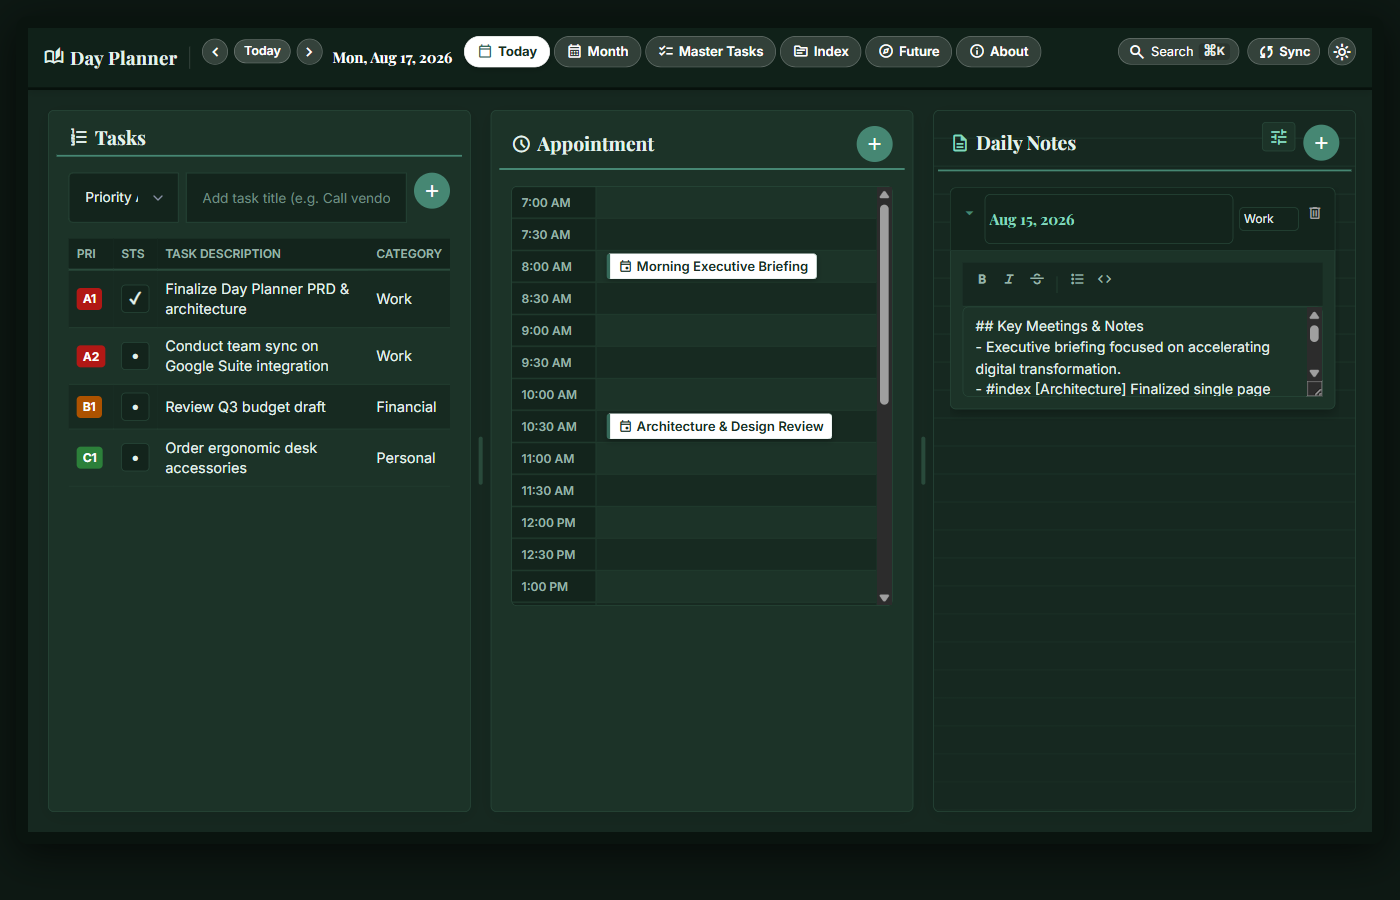
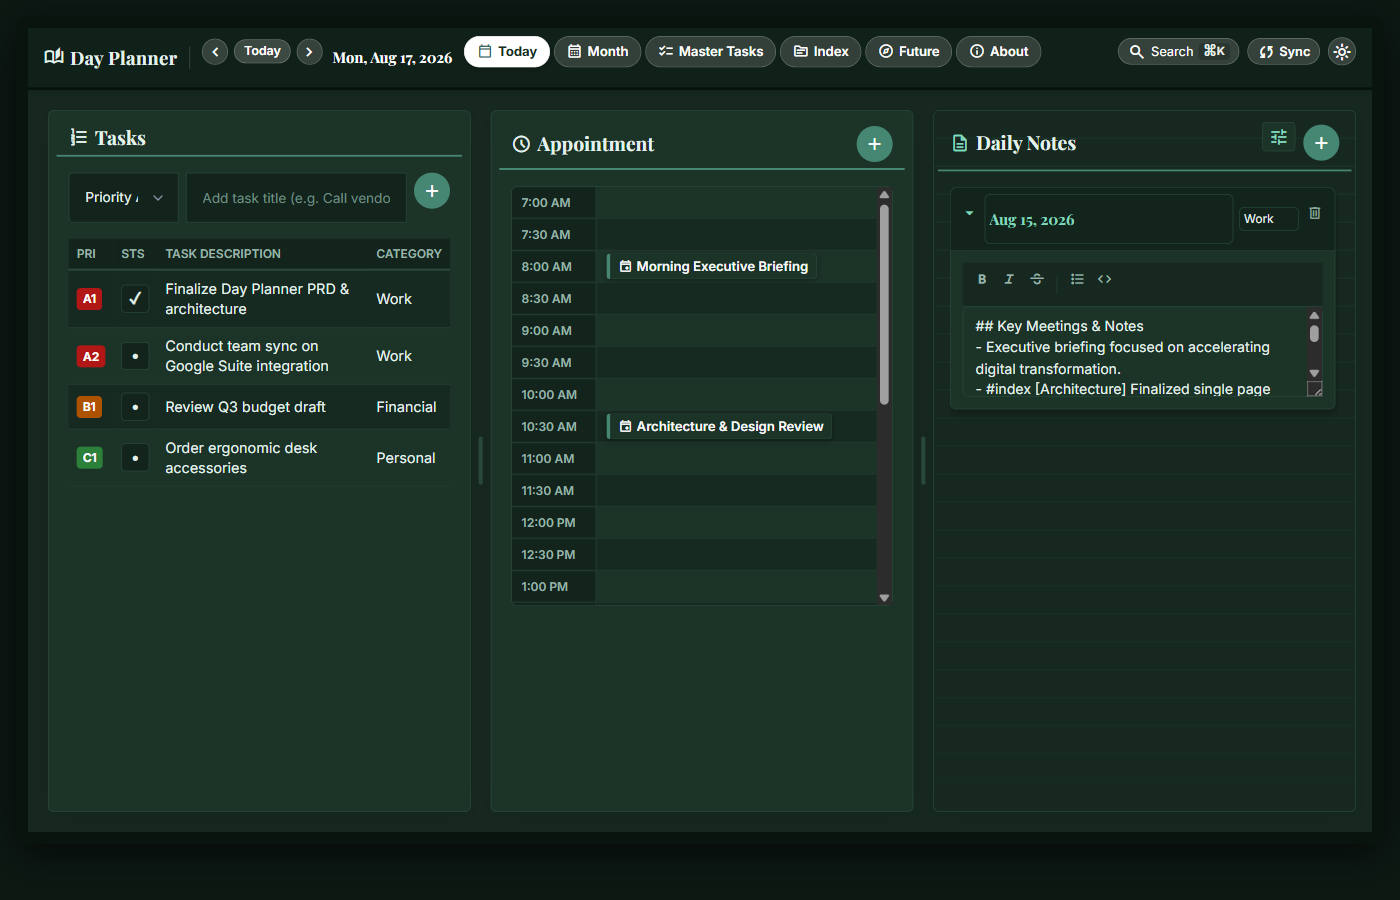
fix(ui): dark mode appointment cards (dark bg #193328, cream fg #f7faf8) & distinct dark mode Daily Notes theme

Changed region(s): [[0.43, 0.4356, 0.6143, 0.4978], [0.43, 0.28, 0.5836, 0.3111]]

diff --git a/gas-app/Styles.html b/gas-app/Styles.html
@@ -770,19 +770,6 @@
     border: 1px solid #c8ded7 !important;
   }
 
-  .notes-column-panel .format-btn,
-  [data-theme="dark"] .notes-column-panel .format-btn {
-    color: #2d6a5a !important;
-  }
-
-  .notes-column-panel .note-card-textarea,
-  [data-theme="dark"] .notes-column-panel .note-card-textarea,
-  .notes-column-panel .continuous-doc-textarea,
-  [data-theme="dark"] .notes-column-panel .continuous-doc-textarea {
-    background: #ffffff !important;
-    color: #142e23 !important;
-    border: 1px solid #c8ded7 !important;
-  }
 
   .notes-header-actions {
     display: flex;
@@ -1981,17 +1968,17 @@
 
   [data-theme="dark"] button.event-pill, 
   [data-theme="dark"] div.event-pill {
-    background: #ffffff !important;
-    color: #142e23 !important;
-    border: 1px solid #c8ded7 !important;
-    border-left: 4px solid #2d6a5a !important;
-    box-shadow: 0 2px 6px rgba(0, 0, 0, 0.25);
+    background: #193328 !important;
+    color: #f7faf8 !important;
+    border: 1px solid #244a3b !important;
+    border-left: 4px solid #3b8773 !important;
+    box-shadow: 0 2px 6px rgba(0, 0, 0, 0.3);
   }
 
   [data-theme="dark"] button.event-pill:hover {
-    background: #f4faf7 !important;
-    color: #0d2118 !important;
-    border-color: #2d6a5a !important;
+    background: #204535 !important;
+    color: #ffffff !important;
+    border-color: #3b8773 !important;
   }
 
   /* Daily Notes Dark Mode Palette (Dark Forest Aesthetic) */
@@ -2063,6 +2050,16 @@
     color: #79d6bd !important;
   }
 
+  [data-theme="dark"] .notes-column-panel .card-twistie-btn {
+    color: #79d6bd !important;
+  }
+  [data-theme="dark"] .notes-column-panel .card-delete-btn {
+    color: #85a398 !important;
+  }
+  [data-theme="dark"] .notes-column-panel .card-delete-btn:hover {
+    color: #f87171 !important;
+  }
+
   [data-theme="dark"] .notes-column-panel .note-card-textarea,
   [data-theme="dark"] .notes-column-panel textarea.note-card-textarea,
   [data-theme="dark"] .notes-column-panel .continuous-doc-textarea,
@@ -2071,6 +2068,27 @@
     background: #193328 !important;
     color: #e2f2ec !important;
     border: 1px solid #244a3b !important;
+  }
+
+  [data-theme="dark"] .notes-filter-menu {
+    background: #163025 !important;
+    border-color: #244a3b !important;
+    color: #e2f2ec !important;
+    box-shadow: 0 8px 24px rgba(0, 0, 0, 0.4) !important;
+  }
+  [data-theme="dark"] .notes-filter-menu .dropdown-header {
+    color: #79d6bd !important;
+  }
+  [data-theme="dark"] .notes-filter-menu input,
+  [data-theme="dark"] .notes-filter-menu select {
+    background: #11241c !important;
+    color: #e2f2ec !important;
+    border-color: #244a3b !important;
+  }
+  [data-theme="dark"] .notes-filter-menu .btn-toggle-mode {
+    background: #193328 !important;
+    border-color: #244a3b !important;
+    color: #79d6bd !important;
   }
 
   [data-theme="dark"] article.calendar-day-cell {

diff --git a/src/styles.css b/src/styles.css
@@ -769,19 +769,6 @@
     border: 1px solid #c8ded7 !important;
   }
 
-  .notes-column-panel .format-btn,
-  [data-theme="dark"] .notes-column-panel .format-btn {
-    color: #2d6a5a !important;
-  }
-
-  .notes-column-panel .note-card-textarea,
-  [data-theme="dark"] .notes-column-panel .note-card-textarea,
-  .notes-column-panel .continuous-doc-textarea,
-  [data-theme="dark"] .notes-column-panel .continuous-doc-textarea {
-    background: #ffffff !important;
-    color: #142e23 !important;
-    border: 1px solid #c8ded7 !important;
-  }
 
   .notes-header-actions {
     display: flex;
@@ -1980,17 +1967,17 @@
 
   [data-theme="dark"] button.event-pill, 
   [data-theme="dark"] div.event-pill {
-    background: #ffffff !important;
-    color: #142e23 !important;
-    border: 1px solid #c8ded7 !important;
-    border-left: 4px solid #2d6a5a !important;
-    box-shadow: 0 2px 6px rgba(0, 0, 0, 0.25);
+    background: #193328 !important;
+    color: #f7faf8 !important;
+    border: 1px solid #244a3b !important;
+    border-left: 4px solid #3b8773 !important;
+    box-shadow: 0 2px 6px rgba(0, 0, 0, 0.3);
   }
 
   [data-theme="dark"] button.event-pill:hover {
-    background: #f4faf7 !important;
-    color: #0d2118 !important;
-    border-color: #2d6a5a !important;
+    background: #204535 !important;
+    color: #ffffff !important;
+    border-color: #3b8773 !important;
   }
 
   /* Daily Notes Dark Mode Palette (Dark Forest Aesthetic) */
@@ -2062,6 +2049,16 @@
     color: #79d6bd !important;
   }
 
+  [data-theme="dark"] .notes-column-panel .card-twistie-btn {
+    color: #79d6bd !important;
+  }
+  [data-theme="dark"] .notes-column-panel .card-delete-btn {
+    color: #85a398 !important;
+  }
+  [data-theme="dark"] .notes-column-panel .card-delete-btn:hover {
+    color: #f87171 !important;
+  }
+
   [data-theme="dark"] .notes-column-panel .note-card-textarea,
   [data-theme="dark"] .notes-column-panel textarea.note-card-textarea,
   [data-theme="dark"] .notes-column-panel .continuous-doc-textarea,
@@ -2070,6 +2067,27 @@
     background: #193328 !important;
     color: #e2f2ec !important;
     border: 1px solid #244a3b !important;
+  }
+
+  [data-theme="dark"] .notes-filter-menu {
+    background: #163025 !important;
+    border-color: #244a3b !important;
+    color: #e2f2ec !important;
+    box-shadow: 0 8px 24px rgba(0, 0, 0, 0.4) !important;
+  }
+  [data-theme="dark"] .notes-filter-menu .dropdown-header {
+    color: #79d6bd !important;
+  }
+  [data-theme="dark"] .notes-filter-menu input,
+  [data-theme="dark"] .notes-filter-menu select {
+    background: #11241c !important;
+    color: #e2f2ec !important;
+    border-color: #244a3b !important;
+  }
+  [data-theme="dark"] .notes-filter-menu .btn-toggle-mode {
+    background: #193328 !important;
+    border-color: #244a3b !important;
+    color: #79d6bd !important;
   }
 
   [data-theme="dark"] article.calendar-day-cell {
